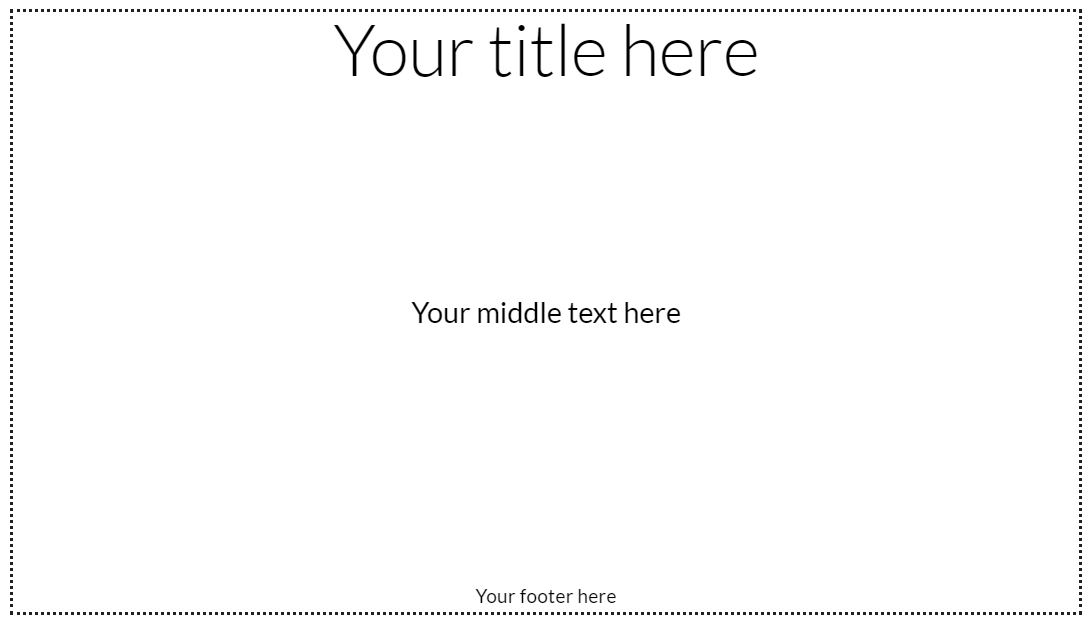
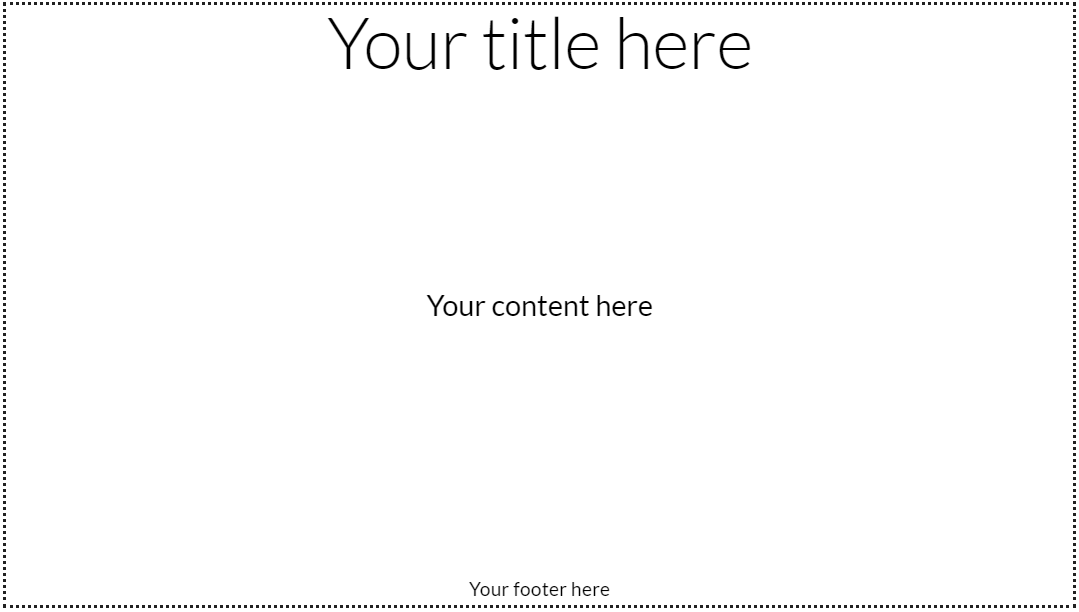
edit video option is added. fixed bug in splash editor

diff --git a/src/views/Search.vue b/src/views/Search.vue
@@ -1,10 +1,11 @@
 <template>
   <v-container fluid>
-    <v-layout row>
+    <v-layout row wrap>
       <v-flex
         px-3
         py-3
-        md3
+        xs12
+        md4
         v-for="thumbnail in thumbnailList"
         :key="thumbnail.id"
       >
@@ -26,7 +27,9 @@
                       </v-flex>
                       <v-flex px-1 xs6>
                         <v-btn block
-                          ><v-icon left>fa fa-edit</v-icon>Edit</v-btn
+                          ><v-icon left @click="edit(thumbnail.id)"
+                            >fa fa-edit</v-icon
+                          >Edit</v-btn
                         >
                       </v-flex>
                     </v-layout>
@@ -62,12 +65,14 @@
 </template>
 
 <script>
+import axios from "axios";
+import { mapMutations } from "vuex";
 export default {
   data() {
     return {
       thumbnailList: [
         {
-          id: 1,
+          id: "5e0c2fe4cb17d12a501cb16f",
           title: "About DIPS",
           img: "https://picsum.photos/id/179/800/800",
 
@@ -125,6 +130,37 @@ export default {
         }
       ]
     };
+  },
+  methods: {
+    ...mapMutations([
+      "setVideoObject",
+      "setSplashScreenObject",
+      "setChapterMarks",
+      "setQuestionMarks",
+      "setWatermark"
+    ]),
+    edit(id) {
+      let videoURL = this.API_URL + "/api/video/file?id=" + id;
+      let watermarkURL = this.API_URL + "/api/video/watermark?id=" + id;
+      axios.get(this.API_URL + "/api/video?id=" + id).then(video => {
+        this.setVideoObject({
+          id: video.data._id,
+          title: video.data.title,
+          file: videoURL
+        });
+        this.setSplashScreenObject({
+          data: null,
+          duration: video.data.splashDuration
+        });
+        this.setChapterMarks(video.data.chapterMarks);
+        this.setQuestionMarks(video.data.questions);
+        this.setWatermark({
+          ...video.data.watermark,
+          file: watermarkURL
+        });
+        this.$router.push({ name: "upload", params: { isEdit: true } });
+      });
+    }
   }
 };
 </script>

diff --git a/src/components/TemplateBuilder.vue b/src/components/TemplateBuilder.vue
@@ -1,13 +1,5 @@
 <template>
   <v-row justify="center">
-    <v-layout
-      v-if="templates.length == 0 || templates == null"
-      column
-      align-center
-    >
-      <v-progress-circular indeterminate size="64"></v-progress-circular>
-      <span>Loading...</span>
-    </v-layout>
     <v-dialog :value="chooseTemplate" persistent max-width="60vw">
       <v-card>
         <v-card-title
@@ -17,7 +9,7 @@
   position: sticky;
   top: 0;z-index:1000"
         >
-          <v-layout row>
+          <v-layout row wrap>
             <v-flex>
               Choose a Template
             </v-flex>
@@ -45,7 +37,7 @@
           </v-layout>
         </v-card-title>
         <v-card-text>
-          <v-layout row>
+          <v-layout row wrap>
             <v-flex
               xs12
               md6
@@ -155,7 +147,7 @@ export default {
           size: "H1"
         };
         let text2 = {
-          text: "Your middle text here",
+          text: "Your content here",
           position: {
             x: "center",
             y: "center"

diff --git a/src/store/index.js b/src/store/index.js
@@ -60,10 +60,17 @@ export default new Vuex.Store({
       state.questionMarks = payload;
     },
     setWatermark: (state, payload) => {
-      state.watermark.opacity = payload.opacity;
-      state.watermark.widthRatio = payload.widthRatio;
-      state.watermark.position = payload.position;
-      state.watermark.file = payload.file;
+      if (payload == null) {
+        state.watermark.opacity = null;
+        state.watermark.widthRatio = null;
+        state.watermark.position = null;
+        state.watermark.file = null;
+      } else {
+        state.watermark.opacity = payload.opacity;
+        state.watermark.widthRatio = payload.widthRatio;
+        state.watermark.position = payload.position;
+        state.watermark.file = payload.file;
+      }
     }
   },
   actions: {},

diff --git a/src/components/Player.vue b/src/components/Player.vue
@@ -10,8 +10,7 @@
     <v-layout>
       <vue-plyr
         @timeupdate="videoTimeUpdated"
-        @play="onPlayVideo"
-        :emit="['timeupdate', 'play']"
+        :emit="['timeupdate']"
         ref="player"
         :style="
           `width:${
@@ -312,6 +311,7 @@ export default {
   },
   watch: {
     duration(value) {
+      this.onPlayVideo();
       for (let i = 0; i < this.chapterList.length; i++) {
         if (value >= this.chapterList[i].startTime) {
           this.playingChapter = i;

diff --git a/src/views/Upload.vue b/src/views/Upload.vue
@@ -120,6 +120,7 @@ import Publish from "@/components/Publish";
 import AreYourSureVue from "../components/AreYourSure.vue";
 import { mapGetters } from "vuex";
 export default {
+  props: ["isEdit"],
   components: {
     VideoUpload,
     SplashEditor,
@@ -187,6 +188,12 @@ export default {
       if (this.stepperCount > 0) {
         this.stepperCount -= 1;
       }
+    }
+  },
+  mounted() {
+    if (this.isEdit) {
+      this.blockUpload = false;
+      this.stepperCount = 2;
     }
   }
 };

diff --git a/src/App.vue b/src/App.vue
@@ -5,7 +5,7 @@
       <router-view></router-view>
     </v-content>
     <v-footer v-if="$route.name != 'Embed'" color="blue darken-3" app>
-      <span class="white--text mx-auto">Last Modified Date: 2019/12/24</span>
+      <span class="white--text mx-auto">Last Modified Date: 2020/01/01</span>
     </v-footer>
   </v-app>
 </template>

diff --git a/src/components/SplashEditor.vue b/src/components/SplashEditor.vue
@@ -710,7 +710,7 @@ export default {
           data: this.canvasData,
           duration: this.duration
         });
-        if (this.logo.file) {
+        if ( this.logo.file) {
           let logo = {
             ...this.logo,
             position: watermarkPosition,

diff --git a/src/main.js b/src/main.js
@@ -30,8 +30,8 @@ Vue.mixin({
   data: function() {
     return {
       get API_URL() {
-        return "http://10.16.1.77";
-        // return "http://localhost:3000";
+        // return "http://10.16.1.77";
+        return "http://localhost:3000";
       }
     };
   }

diff --git a/src/router/index.js b/src/router/index.js
@@ -24,7 +24,8 @@ const routes = [
   {
     path: "/upload",
     name: "upload",
-    component: Upload
+    component: Upload,
+    props: true
   },
   // {
   //   path: "/embed/:vid/:uid",
